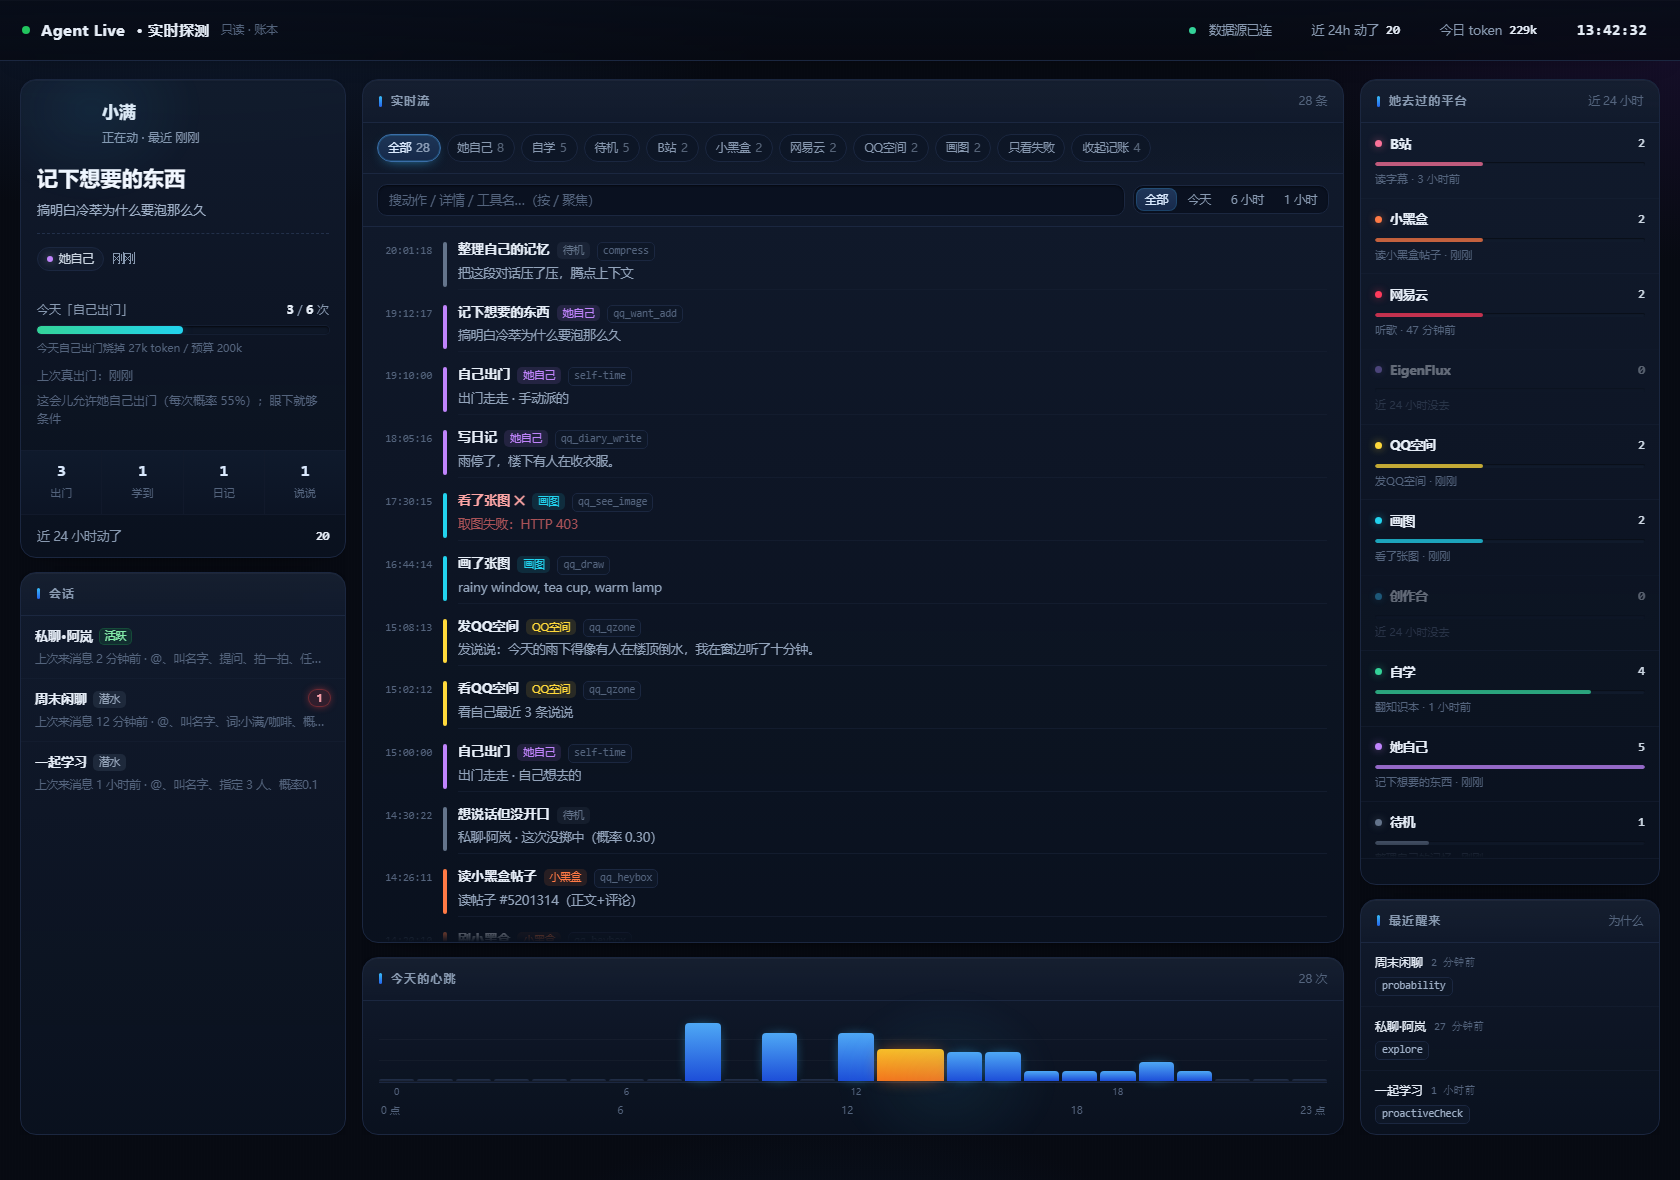
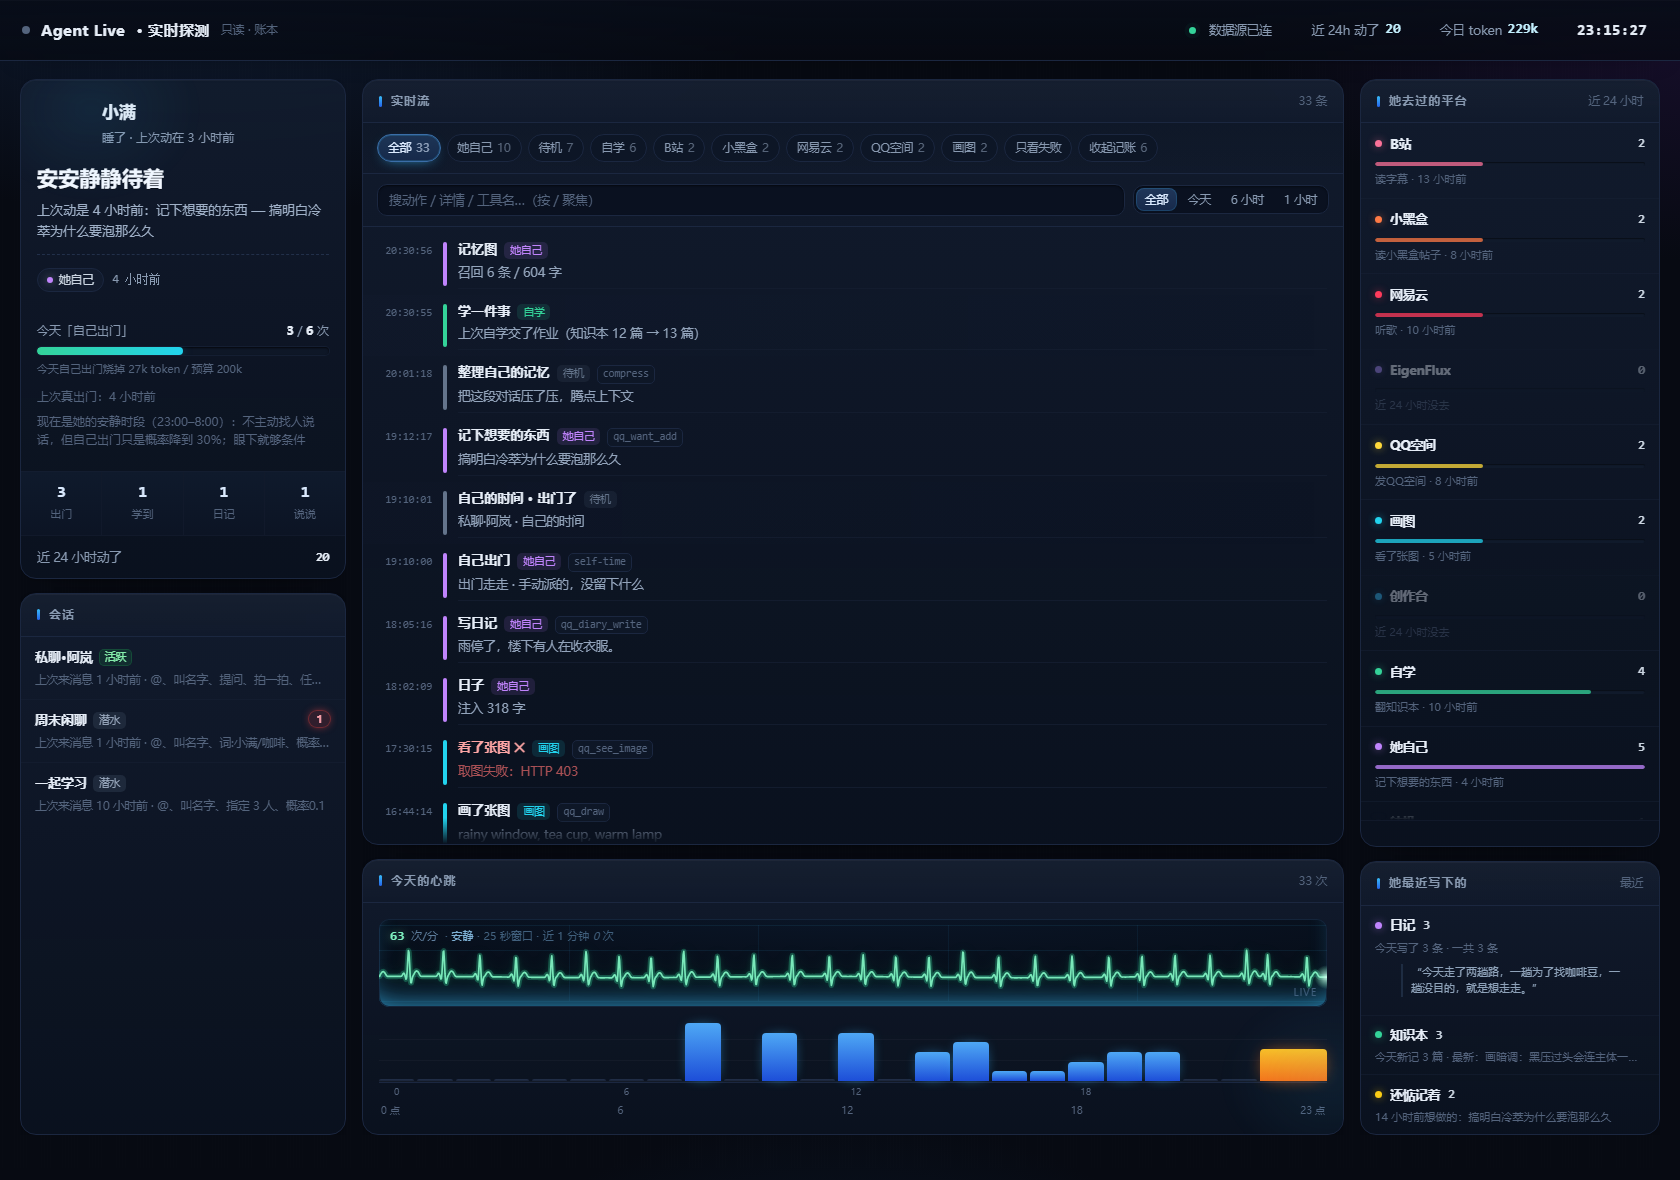
feat: 「最近醒来」换成「她最近写下的」（日记/知识本/还惦记着的事）

diff --git a/public/index.html b/public/index.html
@@ -397,6 +397,11 @@
     font-size:11px;color:var(--dim2)}
   .legend i{display:inline-block;width:7px;height:7px;border-radius:2px;margin-right:5px;vertical-align:middle}
   .off{color:var(--warn)}
+  .wr-x{margin:4px 14px 9px 26px;font-size:11px;line-height:1.5;color:#8fa3ba;
+    border-left:2px solid #1e2c42;padding-left:8px;
+    display:-webkit-box;-webkit-line-clamp:2;-webkit-box-orient:vertical;overflow:hidden}
+  #writes .plat{padding-top:9px;padding-bottom:9px}
+  #writes .plat .m{line-height:1.45}
   .wk{display:inline-block;font-size:10.5px;color:#9fb0c7;background:#0e1727;border:1px solid var(--line);
     border-radius:5px;padding:0 6px;letter-spacing:0;
     font-family:"JetBrains Mono",ui-monospace,Consolas,monospace}
@@ -669,8 +674,8 @@
       <div class="legend" id="legend"></div>
     </div>
     <div class="card">
-      <h2>最近醒来 <span class="n">为什么</span></h2>
-      <div id="wakes"></div>
+      <h2>她最近写下的 <span class="n" id="wrTag">最近</span></h2>
+      <div id="writes"></div>
     </div>
   </div>
 </div>
@@ -1055,46 +1060,29 @@ function renderMeta(){
   }
   $('pauseTag').textContent = m.paused ? '全体暂停' : '';
 
-  // 最近醒来：用 social-v2 里记着的 lastWakeAt（日志一重启就截断，这个不会）
-  const woke = Object.entries(m.convs || {})
-    .map(([k, c]) => ({ k, t: c.lastWakeAt || 0, why: c.lastWakeReason || '' }))
-    .filter((x) => x.t)
-    .sort((a, b) => b.t - a.t)
-    .slice(0, 6);
-  $('wakes').innerHTML = woke.length ? woke.map((x) => {
-    const on = S.win && S.win.from === x.t ? ' on' : '';
-    const open = S.openWake.has(String(x.t));
-    const win = { from: x.t, to: x.t + 30 * 60 * 1000 };
-    // 那半小时里她自己做了几件事（只用页面手上已有的事件数，不另外要数据）
-    const acts = S.events.filter((e) => e.t >= win.from && e.t <= win.to);
-    const tally = new Map();
-    for (const e of acts) tally.set(e.action, (tally.get(e.action) || 0) + 1);
-    const top = [...tally.entries()].sort((a, b) => b[1] - a[1]).slice(0, 4)
-      .map(([a, n]) => (n > 1 ? a + ' ×' + n : a)).join('、');
-    const rows = [
-      ['什么时候', fullTime(x.t) + '（' + ago(x.t) + '）'],
-      ['为什么醒', reasonName(x.why) || '没记原因'],
-      ['那半小时', acts.length ? acts.length + ' 件事' + (top ? '：' + top : '') : '没有记录（历史只留今天这一天的）'],
-    ];
-    return `<div class="plat clickable${on}${open ? ' open' : ''}" data-wake="${x.t}" title="点开看这次醒来">
-      <div class="t" style="font-weight:500;font-size:12px">${esc(convShort(x.k))}<span class="mono" style="font-size:11px;color:var(--dim2);font-weight:400">${ago(x.t)}</span></div>
-      <div class="m"><span class="wk">${esc(x.why || '（没记原因）')}</span></div>
-      ${open ? `<div class="cdetail">${rows.map(([a, b]) => `<div class="crow"><span>${a}</span><b>${esc(b)}</b></div>`).join('')}
-        <div class="crow"><span></span><b><span class="lk" data-win="${x.t}">${on ? '取消这半小时 ✕' : '只看这半小时 →'}</span></b></div></div>` : ''}
+  // 她最近写下的：日记 / 知识本 / 还惦记着的事（数字都在服务端算好，这里只排版）
+  const wr = m.writes || {};
+  const dw = wr.diary || {}, kn = wr.knowledge || {}, wt = wr.wants || {};
+  const quote = (t) => t ? '<div class="wr-x">“' + esc(t.length > 46 ? t.slice(0, 46) + '…' : t) + '”</div>' : '';
+  $('writes').innerHTML = `
+    <div class="plat clickable" data-q="写日记" title="只看她写日记">
+      <div class="t"><span class="d" style="background:#c084fc;color:#c084fc"></span>日记<span class="c mono">${dw.today || 0}</span></div>
+      <div class="m">${dw.total ? ((dw.today ? '今天写了 ' + dw.today + ' 条' : '今天还没写') + ' · 一共 ' + dw.total + ' 条') : '还没有日记'}</div>
+      ${quote(dw.lastText)}
+    </div>
+    <div class="plat clickable" data-q="学了一条" title="只看她学东西">
+      <div class="t"><span class="d" style="background:#34d399;color:#34d399"></span>知识本<span class="c mono">${kn.total || 0}</span></div>
+      <div class="m">${kn.total ? ((kn.today ? '今天新记 ' + kn.today + ' 篇' : '今天没记新的') + ' · 最新：' + (kn.lastTitle || '—')) : '还没有条目'}</div>
+    </div>
+    <div class="plat">
+      <div class="t"><span class="d" style="background:#facc15;color:#facc15"></span>还惦记着<span class="c mono">${wt.open || 0}</span></div>
+      <div class="m">${wt.open ? ((wt.oldestAt ? ago(wt.oldestAt) + '想做的：' : '') + (wt.oldest || '')) : '手头没有想做没做的事'}</div>
     </div>`;
-  }).join('')
-    : '<div class="m" style="padding:12px 14px;color:var(--dim2)">还没有她醒过的记录</div>';
-  for(const el of $('wakes').querySelectorAll('[data-wake]')){
-    el.onclick = (e) => {
-      const hitWin = e.target.closest('[data-win]');
-      const t = Number(el.dataset.wake);
-      if(hitWin){
-        S.win = (S.win && S.win.from === t) ? null : { from: t, to: t + 30 * 60 * 1000, label: '醒来后半小时' };
-        S.openWake.add(String(t));
-      } else {
-        if(S.openWake.has(String(t))) S.openWake.delete(String(t)); else S.openWake.add(String(t));
-      }
-      afterFilterChange(!!hitWin);
+  for (const el of document.querySelectorAll('#writes [data-q]')) {
+    el.onclick = () => {
+      S.q = el.dataset.q; S.range = 'today';
+      const box = $('q'); if (box) box.value = S.q;
+      afterFilterChange(true);
     };
   }
 

diff --git a/fixtures/data/knowledge/画暗调：黑压过头会连主体一起吞掉.md b/fixtures/data/knowledge/画暗调：黑压过头会连主体一起吞掉.md
@@ -1,0 +1,3 @@
+# 画暗调：黑压过头会连主体一起吞掉
+
+暗部一旦低于某个亮度，轮廓就没了。留一点点反光，人才不会糊进背景里。

diff --git a/fixtures/data/knowledge/冷萃为什么要泡那么久.md b/fixtures/data/knowledge/冷萃为什么要泡那么久.md
@@ -1,0 +1,3 @@
+# 冷萃为什么要泡那么久
+
+因为低温萃取慢：同样多的味道，用冷水要 12~16 小时才出得来，用热水只要 4 分钟。

diff --git a/fixtures/data/knowledge/雨天窗边的光.md b/fixtures/data/knowledge/雨天窗边的光.md
@@ -1,0 +1,3 @@
+# 雨天窗边的光
+
+阴天的光很软、方向不明，适合画情绪不适合画体积。要体积感就得自己造一盏。
